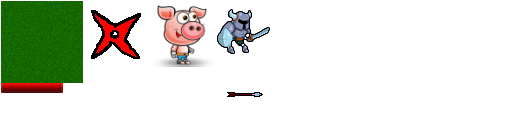
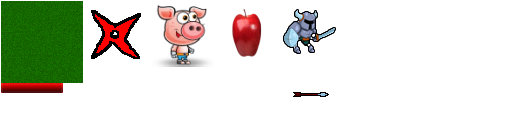
Home work. Урок 2. Стрельба стрелами в яблоко. При попадании яблоко меняет расположение

Changed region(s): [[0.4062, 0.0625, 0.6562, 0.4688], [0.5625, 0.7188, 0.6562, 0.7812], [0.4375, 0.7188, 0.5312, 0.7812]]

diff --git a/core/src/com/lmarch/rpg/game/GeekRpgGame.java b/core/src/com/lmarch/rpg/game/GeekRpgGame.java
@@ -7,6 +7,8 @@ import com.badlogic.gdx.graphics.g2d.BitmapFont;
 import com.badlogic.gdx.graphics.g2d.SpriteBatch;
 import com.badlogic.gdx.graphics.g2d.TextureAtlas;
 import com.badlogic.gdx.graphics.g2d.TextureRegion;
+import com.badlogic.gdx.math.Intersector;
+import com.badlogic.gdx.math.Vector2;
 
 public class GeekRpgGame extends ApplicationAdapter {
 	private SpriteBatch batch; //
@@ -14,17 +16,19 @@ public class GeekRpgGame extends ApplicationAdapter {
 	private TextureAtlas atlas;
 	private TextureRegion textureGrass;
 	private Hero hero;
+	private Apple apple;
 
 	//Домашнее задание:
-	// 1. Добавить на экран яблоко и попробовать отследить попадание стрелы в яблоко.
+	// + 1. Добавить на экран яблоко и попробовать отследить попадание стрелы в яблоко.
 	//    При попадании яблоко должно появиться в новом месте.
-	// 2. ** Попробуйте заставить героя выпускать несколько стрел.
+	// + 2. ** Попробуйте заставить героя выпускать несколько стрел.
 	
 	@Override
 	public void create () {
 		this.batch = new SpriteBatch();
 		this.atlas = new TextureAtlas("game.pack"); //Загрузка атласа текстур в память
 		this.hero = new Hero(atlas);
+		this.apple = new Apple(atlas);
 		this.textureGrass = atlas.findRegion("grass");
 		this.font24 = new BitmapFont(Gdx.files.internal("font24.fnt"));
 	}
@@ -50,16 +54,28 @@ public class GeekRpgGame extends ApplicationAdapter {
 		}
 		hero.render(batch);
 		hero.renderGUI(batch, font24);//GUI желательно рисовать отдельно
+		apple.render(batch);
 
 		batch.end();
 	}
 
 	public void update(float dt){
 		hero.update(dt);
+		checkHit();
 	}
 	
 	@Override
 	public void dispose () {
 		batch.dispose();
+	}
+
+	public void checkHit(){
+		for (Arrow o : hero.getProjectController().getArrows()) {
+//			if (apple.getAreaApple().overlaps(o.getArrowArea())){
+//				apple.setPosition(new Vector2((float) Math.random() * 1280 , (float) Math.random() * 720));
+//			}
+			if (Intersector.overlaps(apple.getAreaApple(), o.getArrowArea()))
+				apple.setPosition();
+		}
 	}
 }

diff --git a/core/src/com/lmarch/rpg/game/Arrow.java b/core/src/com/lmarch/rpg/game/Arrow.java
@@ -1,0 +1,56 @@
+package com.lmarch.rpg.game;
+
+import com.badlogic.gdx.graphics.g2d.SpriteBatch;
+import com.badlogic.gdx.graphics.g2d.TextureAtlas;
+import com.badlogic.gdx.graphics.g2d.TextureRegion;
+import com.badlogic.gdx.math.Circle;
+import com.badlogic.gdx.math.Vector2;
+
+public class Arrow {
+    private TextureRegion textureRegion;
+    private Vector2 position;
+    private Vector2 velocity; //скорость
+    private boolean active;
+    private Circle arrowArea; //отслеживание попаданий
+
+    public Arrow(TextureAtlas atlas) {
+        this.textureRegion = atlas.findRegion("arrow");
+        this.position = new Vector2(0, 0);
+        this.velocity = new Vector2(0, 0);
+        this.active = false;
+        this.arrowArea = new Circle(position.x+30, position.y+30, 20);
+    }
+
+    public void setup(float x, float y, float targetX, float targetY){
+        position.set(x, y);
+        velocity.set(targetX, targetY).sub(x, y).nor().scl(500.0f);
+        arrowArea.setPosition(position.x+30, position.y+30);
+        active = true;
+    }
+
+    public void deactivate(){
+        active = false;
+    }
+
+    //Отрисовка стрелы
+    public void render(SpriteBatch batch){
+        batch.draw(textureRegion, position.x - 30, position.y - 30,
+                30, 30, 60, 60, 1, 1, velocity.angle());
+    }
+
+    public void update(float dt){
+        position.mulAdd(velocity, dt);
+        if (position.x < 0 || position.x > 1280 || position.y < 0 || position.y > 720){
+            deactivate();
+        }
+        arrowArea.setPosition(position.x+30, position.y+30);
+    }
+
+    public boolean isActive() {
+        return active;
+    }
+
+    public Circle getArrowArea() {
+        return arrowArea;
+    }
+}

diff --git a/core/src/com/lmarch/rpg/game/Hero.java b/core/src/com/lmarch/rpg/game/Hero.java
@@ -10,7 +10,7 @@ import com.badlogic.gdx.math.Vector2;
 
 public class Hero {
     private TextureRegion texture;
-    private ProjectileController projectController;
+    private ArrowsController projectController;
     private TextureRegion texturePointer;
     private TextureRegion textureHp;
     private Vector2 position; //Позиция героя
@@ -20,7 +20,7 @@ public class Hero {
     private float speed;
     private float rotation; //lifeTime
     private int hp; //здоровье героя
-    private int hpMax;
+    private int hpMax; //максимальное здоровье
 
     private Vector2 angle;
 
@@ -28,7 +28,7 @@ public class Hero {
         this.texture = atlas.findRegion("pig1");
         this.texturePointer = atlas.findRegion("pointer");
         this.textureHp = atlas.findRegion("hp");
-        this.projectController = new ProjectileController(atlas);
+        this.projectController = new ArrowsController(atlas);
         this.position = new Vector2(100, 100);
         this.dst = new Vector2(position);
         this.tmp = new Vector2(0, 0);
@@ -76,7 +76,7 @@ public class Hero {
 
         tmp.set(dst).sub(position).nor().scl(speed); //вектор скорости
         angle.set(tmp);
-        System.out.println(angle.angle());
+//        System.out.println(angle.angle());
 //        if (position.x < dst.x) angle = dst.angle();
 //        if (position.x > dst.x) angle = dst.angle() - 180.0f;
 
@@ -88,5 +88,9 @@ public class Hero {
 
         //Данную строку использовать нельзя (метод cpy()...)
         //position.mulAdd(dst.cpy().sub(position).nor().scl(speed), dt);
+    }
+
+    public ArrowsController getProjectController() {
+        return projectController;
     }
 }

diff --git a/core/src/com/lmarch/rpg/game/ArrowsController.java b/core/src/com/lmarch/rpg/game/ArrowsController.java
@@ -3,19 +3,21 @@ package com.lmarch.rpg.game;
 import com.badlogic.gdx.graphics.g2d.SpriteBatch;
 import com.badlogic.gdx.graphics.g2d.TextureAtlas;
 
-public class ProjectileController {
-    private Projectile[] projectiles;
+public class ArrowsController {
+    private Arrow[] arrows;
+    private int numArrowsInQuiver;
 
-    public ProjectileController(TextureAtlas atlas) {
-        projectiles = new Projectile[3];
+    public ArrowsController(TextureAtlas atlas) {
+        numArrowsInQuiver = 10;
+        arrows = new Arrow[numArrowsInQuiver];
 
-        for (int i = 0; i < projectiles.length; i++) {
-            projectiles[i] = new Projectile(atlas);
+        for (int i = 0; i < arrows.length; i++) {
+            arrows[i] = new Arrow(atlas);
         }
     }
 
     public void setup(float x, float y, float targetX, float targetY){
-        for (Projectile o : projectiles) {
+        for (Arrow o : arrows) {
             if (!o.isActive()) {
                 o.setup(x, y, targetX, targetY);
                 return;
@@ -24,7 +26,7 @@ public class ProjectileController {
     }
 
     public void update(float dt){
-        for (Projectile o : projectiles) {
+        for (Arrow o : arrows) {
             if (o.isActive()){
                 o.update(dt);
             }
@@ -32,10 +34,14 @@ public class ProjectileController {
     }
 
     public void render(SpriteBatch batch){
-        for (Projectile o : projectiles) {
+        for (Arrow o : arrows) {
             if(o.isActive()){
                 o.render(batch);
             }
         }
+    }
+
+    public Arrow[] getArrows() {
+        return arrows;
     }
 }

diff --git a/core/src/com/lmarch/rpg/game/Apple.java b/core/src/com/lmarch/rpg/game/Apple.java
@@ -1,0 +1,39 @@
+package com.lmarch.rpg.game;
+
+import com.badlogic.gdx.graphics.g2d.SpriteBatch;
+import com.badlogic.gdx.graphics.g2d.TextureAtlas;
+import com.badlogic.gdx.graphics.g2d.TextureRegion;
+import com.badlogic.gdx.math.Circle;
+import com.badlogic.gdx.math.Vector2;
+
+import java.util.Random;
+
+public class Apple {
+    private TextureRegion textureApple;
+    private Vector2 position; //Позиция яблока
+    private Circle areaApple;
+
+    public Apple(TextureAtlas atlas) {
+        this.textureApple = atlas.findRegion("apple");
+        this.position = new Vector2(getRandomCoordinate(0, 1280), getRandomCoordinate(0, 720));
+        this.areaApple = new Circle(position.x+32, position.y+32, 20);
+    }
+
+    public void render(SpriteBatch batch){
+        batch.draw(textureApple, position.x, position.y);
+    }
+
+    public Circle getAreaApple() {
+        return areaApple;
+    }
+
+    public void setPosition() {
+        this.position.set(getRandomCoordinate(0, 1280), getRandomCoordinate(0, 720));
+        this.areaApple.setPosition(position.x+32, position.y+32);
+    }
+
+    public float getRandomCoordinate(int min, int max) {
+        Random random = new Random();
+        return random.ints(min+32, max-32).findFirst().getAsInt();
+    }
+}
